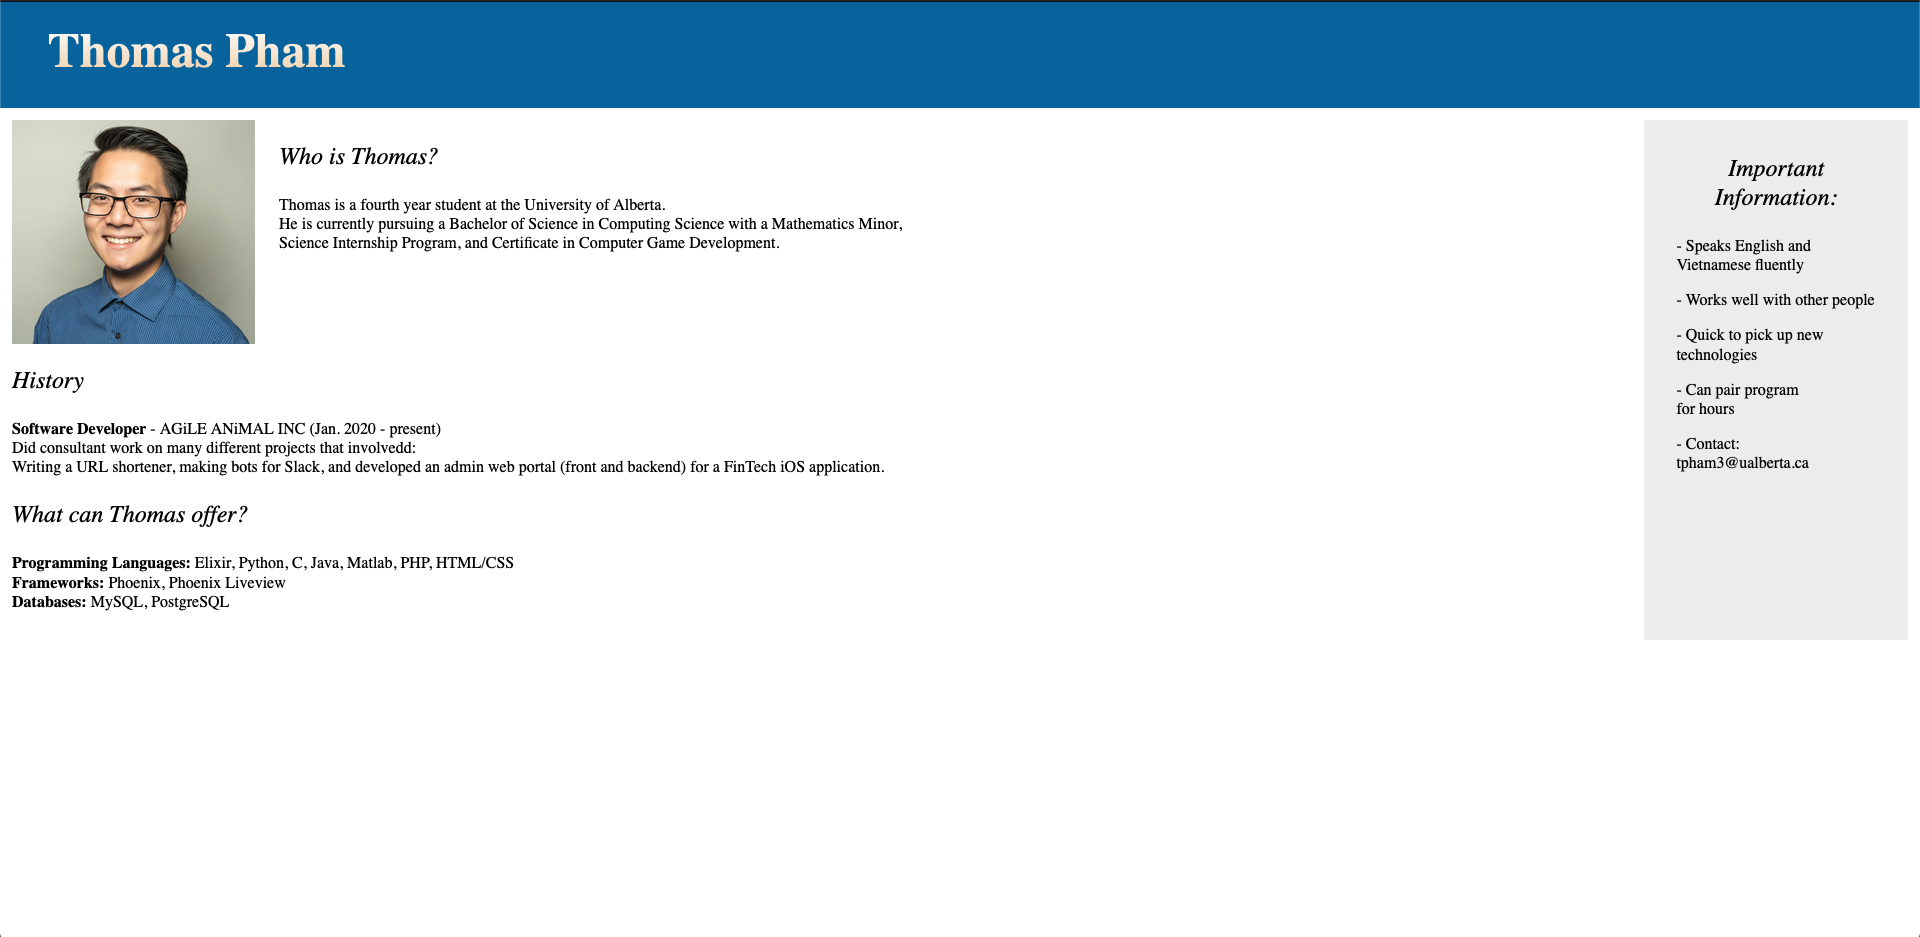
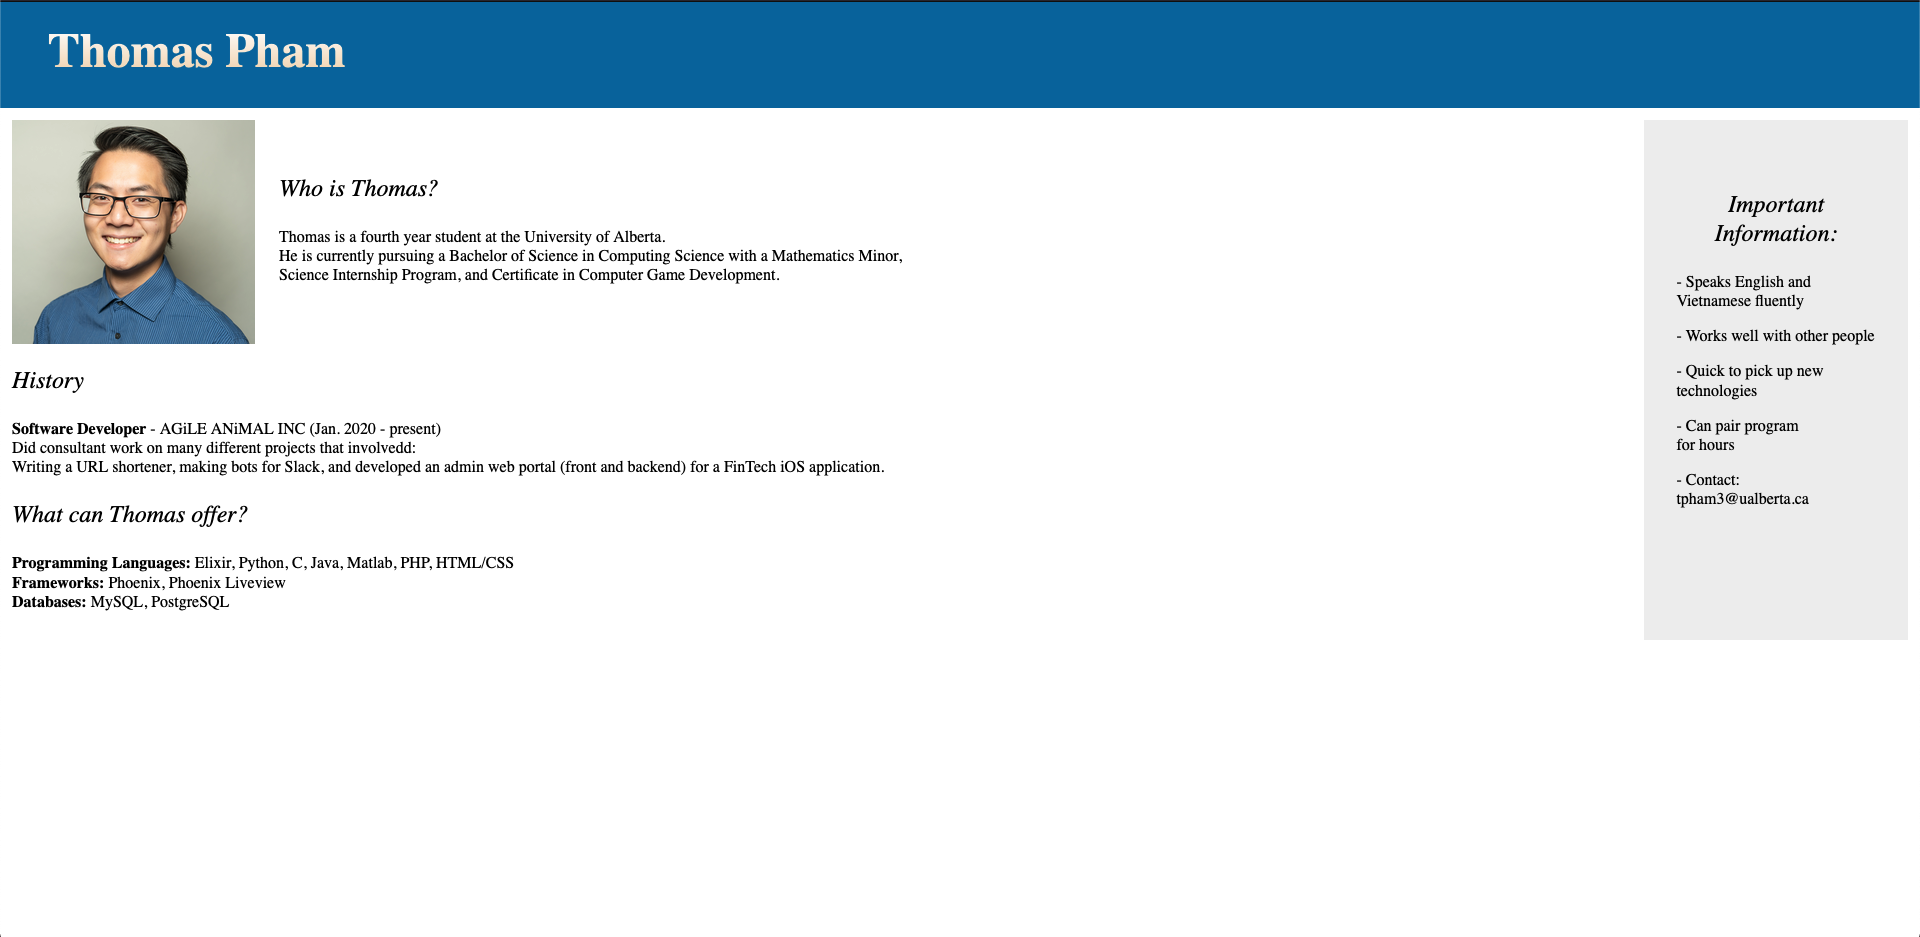
actually finished

Changed region(s): [[0.125, 0.1547, 0.4688, 0.3095], [0.875, 0.1547, 0.9688, 0.5571]]

diff --git a/homepage/good.html b/homepage/good.html
@@ -15,7 +15,7 @@
       <div class="flex">
         <img src="static/image.jpg">
         <div>
-          <p class="header ml">Who is Thomas?</p>
+          <p class="header ml mt">Who is Thomas?</p>
           <p class="ml">Thomas is a fourth year student at the University of Alberta. <br>
             He is currently pursuing a Bachelor of Science in Computing Science with a Mathematics Minor, <br>
             Science Internship Program, and Certificate in Computer Game Development.
@@ -33,7 +33,7 @@
       <b>Databases:</b> MySQL, PostgreSQL</p>
     </div>
     <div class="side-nav">
-      <p class="header text-center mt"> Important Information:</p>
+      <p class="header text-center mt-big"> Important Information:</p>
       <p>- Speaks English and Vietnamese fluently</p>
       <p>- Works well with other people</p>
       <p>- Quick to pick up new technologies</p>

diff --git a/homepage/static/good.css b/homepage/static/good.css
@@ -51,5 +51,9 @@ img {
 }
 
 .mt {
-  margin-top: 36px;
+  margin-top: 56px;
+}
+
+.mt-big {
+  margin-top: 72px;
 }
